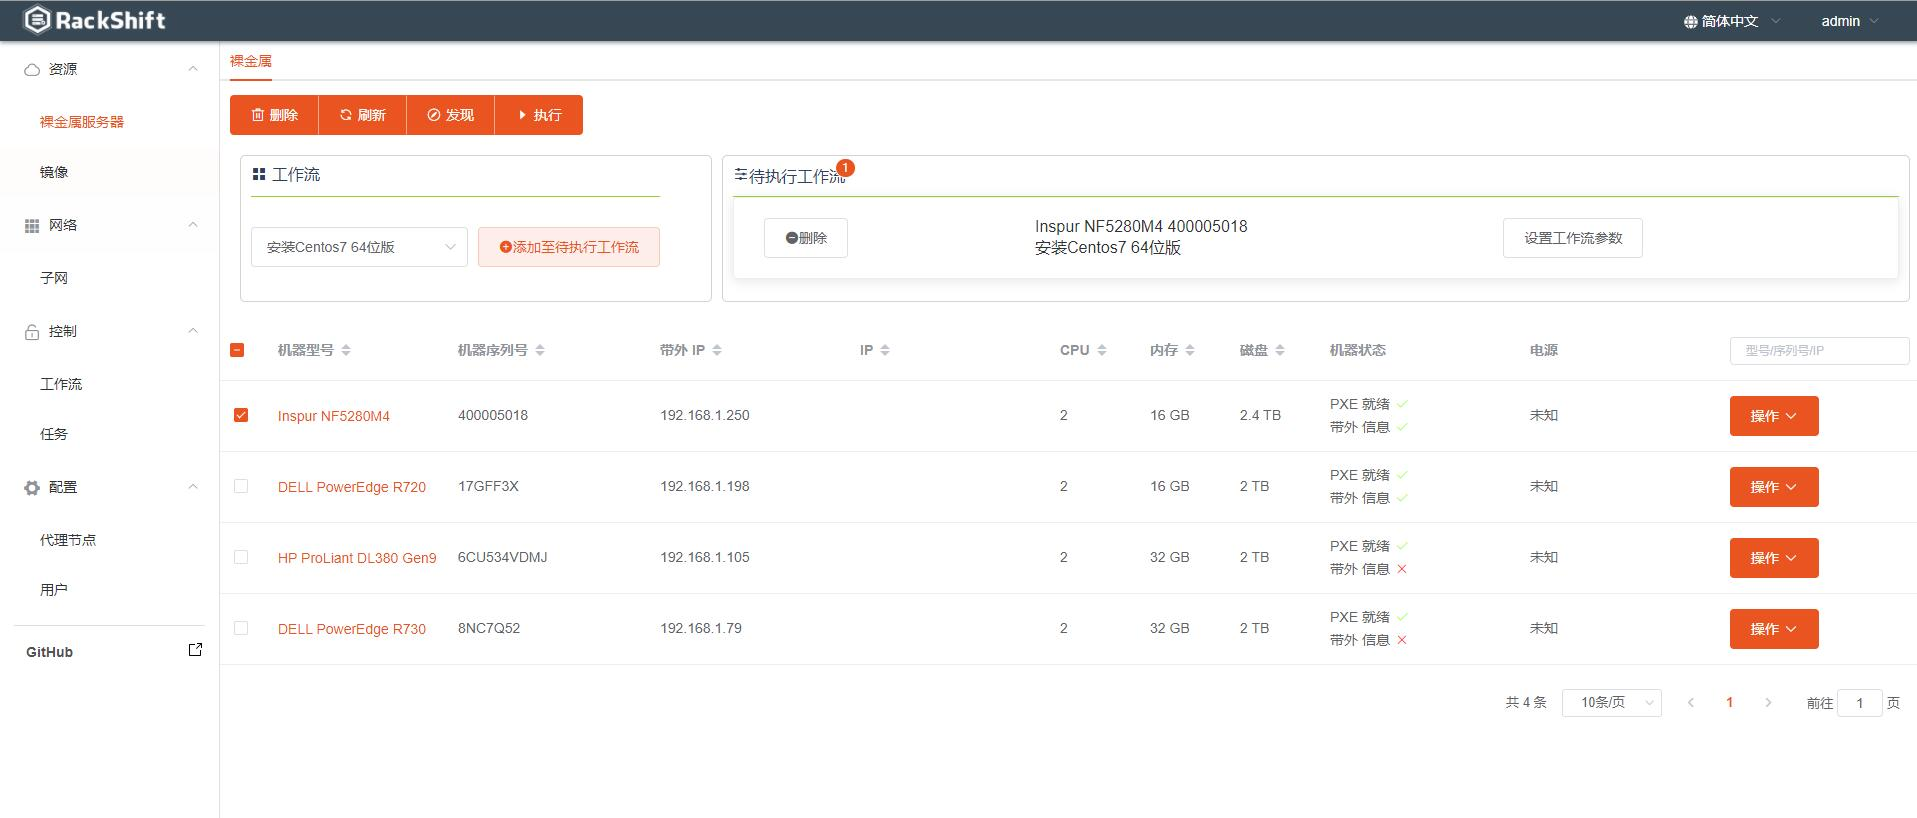
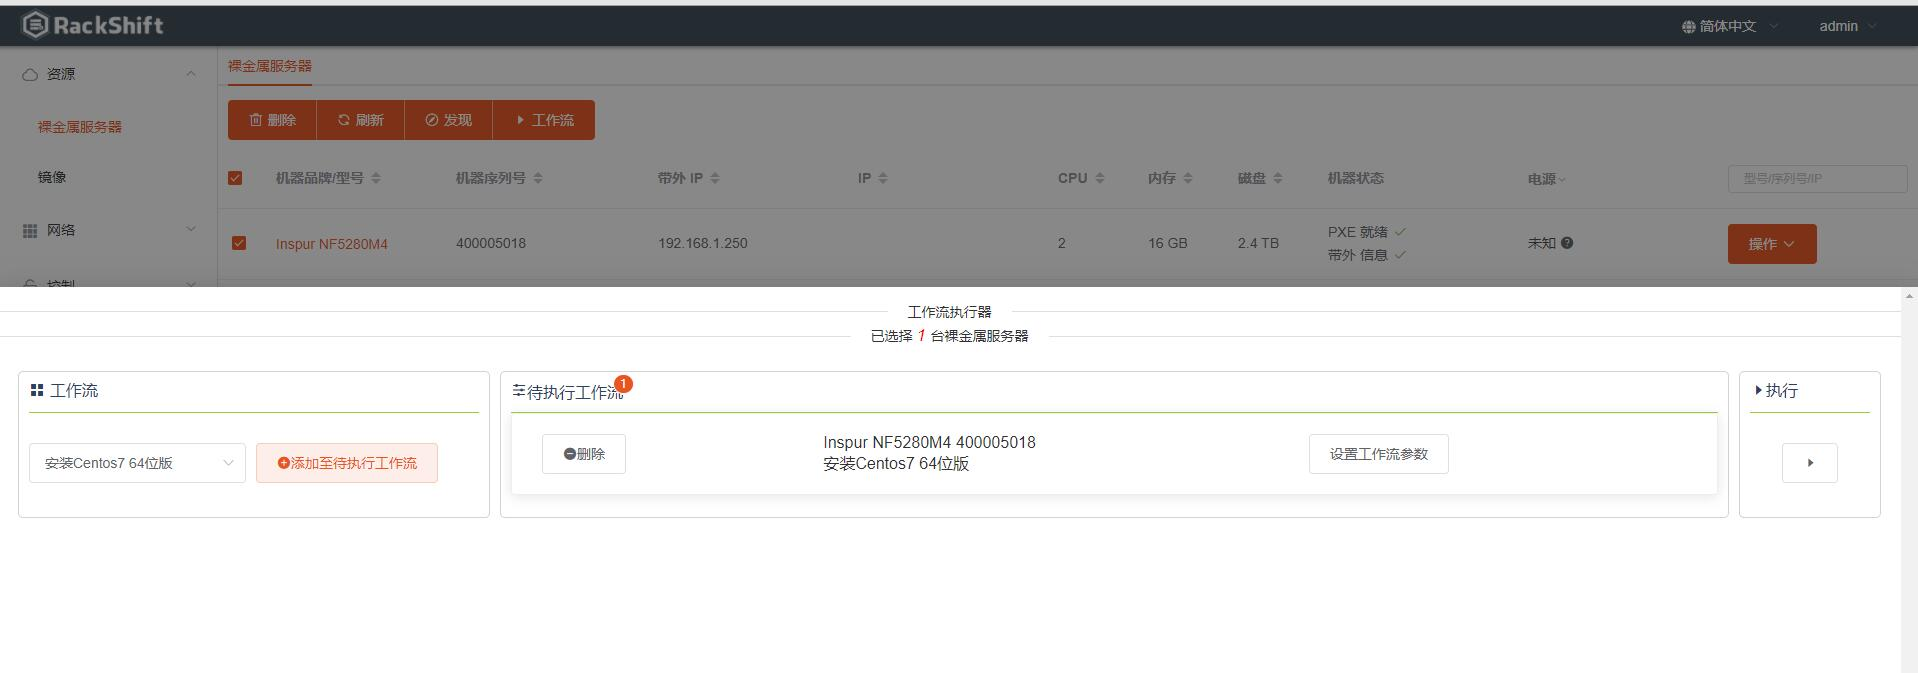
docs:update

diff --git a/docs/workflow.md b/docs/workflow.md
@@ -4,14 +4,18 @@
 ## 创建 RAID
 - 裸金属页面选择物理机
 ![runnob](./static/wizard/select_raid_machine.jpg)
+- 点击“工作流”按钮
+![runnob](./static/wizard/run-workflow.jpg)
 - 选择“创建 Inspur 服务器磁盘 RAID 虚拟磁盘”工作流
 - 点击“添加至待执行工作流”按钮
+![runnob](./static/wizard/run-workflow2.jpg)
 - 点击“设置工作流参数”配置 RAID 类型以及 RAID 需要的磁盘
 ![runnob](./static/wizard/raid_config.jpg)
 - 可配置多组 RAID
 ![runnob](./static/wizard/multi_raid_config.jpg)
 - 点击“确定”按钮保存配置
-- 回到裸金属页面点击“执行”按钮
+- 回到裸金属页面点击”三角形“的执行按钮执行任务
+- 可以重复添加需要执行的其他任务
 
 ## 安装 Centos7
 - 上传 OS 镜像
@@ -20,7 +24,8 @@
     RackShift 只支持 7.0 以上系统安装,并且请使用完整版 ISO 镜像,一般大小在 4G 左右，否则装机失败
     
 - 裸金属页面选择物理机
-
+- 点击“工作流”按钮
+![runnob](./static/wizard/run-workflow.jpg)
 - 选择“安装 Centos7 64位”工作流
 ![runnob](./static/wizard/select_centos.jpg)
 
@@ -34,7 +39,9 @@
     - UEFI 引导: 如果您确认您的机器 BIOS 引导模式是 EFI 或者 UEFI 请一定打开此选项，否则装机失败
     
  - 点击“确定”按钮保存配置
- - 回到裸金属页面点击“执行”按钮
+- 回到裸金属页面点击”三角形“的执行按钮执行任务
+- 可以重复添加需要执行的其他任务
+
 
 ## 任务列表观察执行日志
 

diff --git a/docs/network.md b/docs/network.md
@@ -1,24 +1,7 @@
 # 网络结构
 
-## 网络拓扑
-![runnob](./static/wizard/structure.jpg)
+![runnob](./static/wizard/rs-network.png)
 
-RackShift 部署在一台与带外网络三层可达，与裸机 PXE 网卡二层可达的一台虚拟机/物理机上。
-
-!!! warning "注意"
-    RackShift 必须与裸机 PXE 在二层网络直连,否则请您联系我们进行特殊定制
-## 端口
-
-## tcp
- * 80 (RackShift 服务)
- * 8083(RackShift-proxy 服务)
- * 9090(RackHD http 服务)
- * 9030(RackHD task 服务)
- 
-## udp
- * 4011(DHCP-proxy 服务)
- * 67(DHCP 服务)
- * 69(TFTP 服务)
-
-!!! warning "注意"
-    RackShift 安装完毕之后会自动开启上述所有端口
+!!! info "RackShift 网卡说明"
+    - 管理：与 BMC 管理网络三层通信，通过该网络 RackShift 能控制物理机的 PXE 启动等行为
+    - PXE ： 与 物理机 PXE 网口直连，通过该网络 RackShift 能下发 PXE 过程中需要的文件

diff --git a/docs/faq.md b/docs/faq.md
@@ -1,2 +1,15 @@
 # 故障排除
-## TBD
+### Q：通过 rsctl status 发现有的服务无法启动
+![runnob](./static/faq/dhcp-error.jpg)
+如图 rackshift_dhcp_1 服务器使用的是开源的 isc-dhcp-server，该服务器规定了必须至少绑定一块网卡才可以正常启动，这里我们一般都是绑定提供 PXE 功能的
+网卡的地址段，比如192.168.2.0/24
+![runnob](./static/faq/dhcp-config.jpg)
+回到 RackShift 界面在网络页面，配置好正确的 DHCP 地址段，点击确定，dhcp 服务将会自动重启,故障解决。
+
+### Q：PXE 网段发生变化，怎么重置 RackShift IP
+使用 rsctl reconfig 命令重置即可
+ 
+### Q：服务器无响应？
+使用 rsctl restart 命令尝试重启。如果不能成功请确认 RackShift 服务正确的运行的 PXE 网卡之上，并且尝试 rsctl reconfig
+重设为正确的 IP 地址 
+ 

diff --git a/docs/about.md b/docs/about.md
@@ -2,4 +2,4 @@
 
 ## 微信群
 
-<img src="https://f2c-south.oss-cn-shenzhen.aliyuncs.com/RackHD-dont-del/RackShift/rs-2020-11-29.jpg" width="300" height="300" align="middle" />
+![runnbo](./static/wizard/rs-2020-12-04.jpg)
